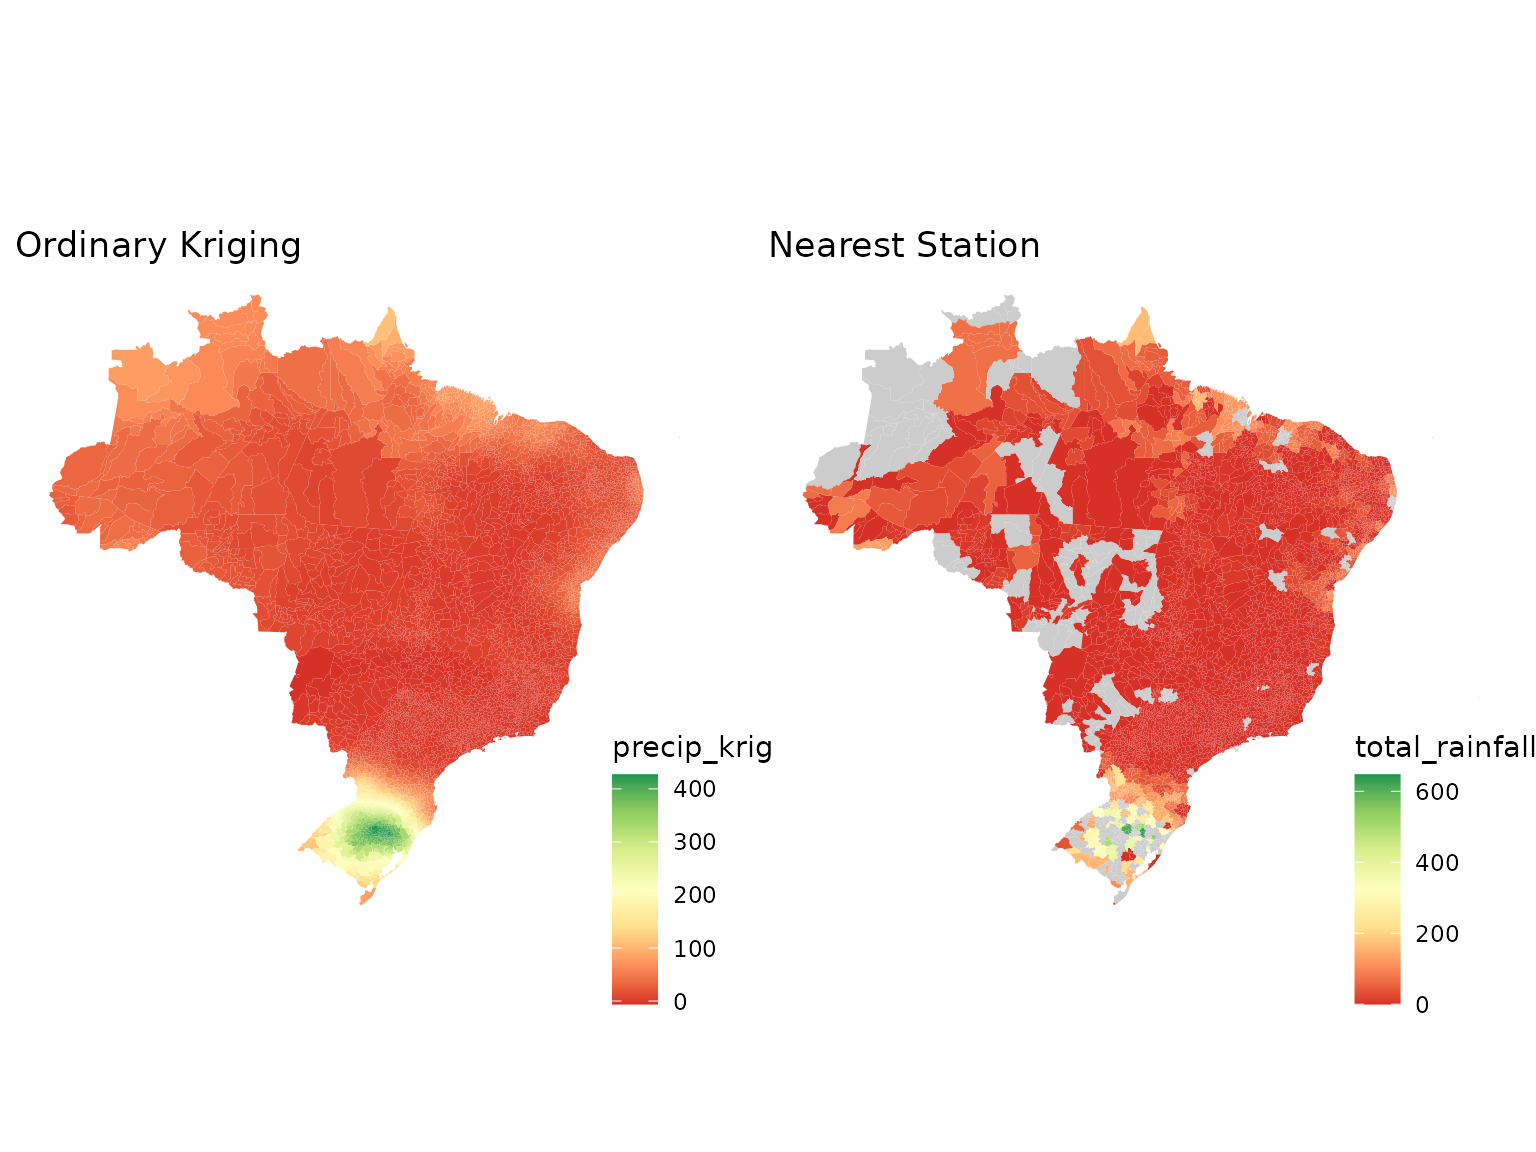
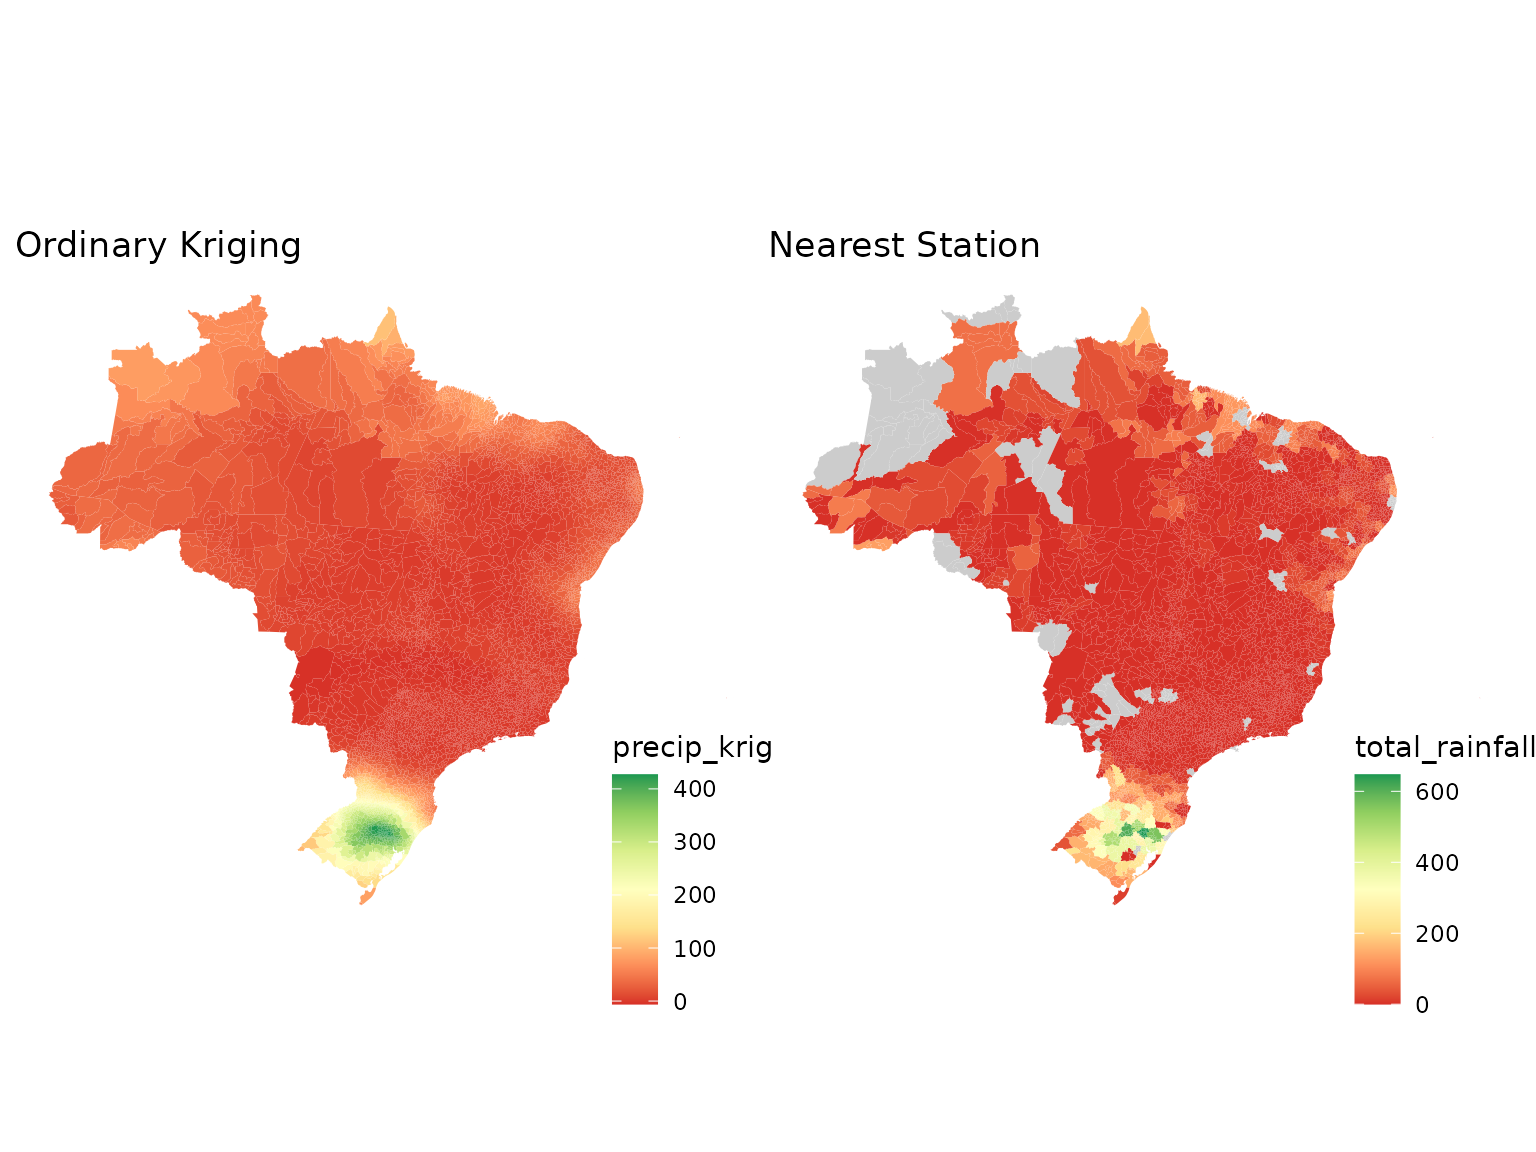
Deploying to gh-pages from @ kaiorb52/climateBR@eb87dfb2c33d2386ef8012741a2a854e08ef6d5a 🚀

Changed region(s): [[0.625, 0.4375, 0.7812, 0.5625], [0.6875, 0.6875, 0.7812, 0.7812]]

diff --git a/articles/kriging.html b/articles/kriging.html
@@ -178,10 +178,17 @@ obtained through ordinary kriging.</p>
 value from its closest weather station.</p>
 <div class="sourceCode" id="cb7"><pre class="downlit sourceCode r">
 <code class="sourceCode R"><span></span>
+<span><span class="fu"><a href="https://rdrr.io/r/utils/data.html" class="external-link">data</a></span><span class="op">(</span><span class="st">"inmet_stations"</span><span class="op">)</span></span>
+<span></span>
+<span><span class="va">mun_stations2</span> <span class="op">&lt;-</span> <span class="va">mun_stations</span> <span class="op">|&gt;</span> </span>
+<span>  <span class="fu"><a href="https://dplyr.tidyverse.org/reference/mutate-joins.html" class="external-link">left_join</a></span><span class="op">(</span><span class="va">inmet_stations</span> <span class="op">|&gt;</span> <span class="fu"><a href="https://dplyr.tidyverse.org/reference/select.html" class="external-link">select</a></span><span class="op">(</span><span class="va">code_wmo</span>, <span class="va">creation_year</span><span class="op">)</span><span class="op">)</span> <span class="op">|&gt;</span> </span>
+<span>  <span class="fu"><a href="https://dplyr.tidyverse.org/reference/filter.html" class="external-link">filter</a></span><span class="op">(</span><span class="va">creation_year</span> <span class="op">&lt;=</span> <span class="fl">2024</span><span class="op">)</span> <span class="op">|&gt;</span> </span>
+<span>  <span class="fu"><a href="https://dplyr.tidyverse.org/reference/arrange.html" class="external-link">arrange</a></span><span class="op">(</span><span class="va">distance</span><span class="op">)</span> <span class="op">|&gt;</span> </span>
+<span>  <span class="fu"><a href="https://dplyr.tidyverse.org/reference/distinct.html" class="external-link">distinct</a></span><span class="op">(</span><span class="va">code_ibge7</span>, .keep_all <span class="op">=</span> <span class="cn">TRUE</span><span class="op">)</span></span>
+<span></span>
 <span><span class="va">mun_floods</span> <span class="op">&lt;-</span> <span class="va">floods_rs</span> <span class="op">|&gt;</span></span>
 <span>  <span class="fu"><a href="https://dplyr.tidyverse.org/reference/mutate-joins.html" class="external-link">left_join</a></span><span class="op">(</span></span>
-<span>    <span class="va">mun_stations</span> <span class="op">|&gt;</span></span>
-<span>      <span class="fu"><a href="https://dplyr.tidyverse.org/reference/filter.html" class="external-link">filter</a></span><span class="op">(</span><span class="va">station_order</span> <span class="op">==</span> <span class="fl">1</span><span class="op">)</span>,</span>
+<span>    <span class="va">mun_stations2</span>,</span>
 <span>    by <span class="op">=</span> <span class="fu"><a href="https://rdrr.io/r/base/c.html" class="external-link">c</a></span><span class="op">(</span><span class="st">"code_wmo"</span> <span class="op">=</span> <span class="st">"code_wmo"</span><span class="op">)</span></span>
 <span>  <span class="op">)</span></span>
 <span></span>

diff --git a/articles/kriging.md b/articles/kriging.md
@@ -128,10 +128,17 @@ value from its closest weather station.
 ``` r
 
 
+data("inmet_stations")
+
+mun_stations2 <- mun_stations |> 
+  left_join(inmet_stations |> select(code_wmo, creation_year)) |> 
+  filter(creation_year <= 2024) |> 
+  arrange(distance) |> 
+  distinct(code_ibge7, .keep_all = TRUE)
+
 mun_floods <- floods_rs |>
   left_join(
-    mun_stations |>
-      filter(station_order == 1),
+    mun_stations2,
     by = c("code_wmo" = "code_wmo")
   )
 
